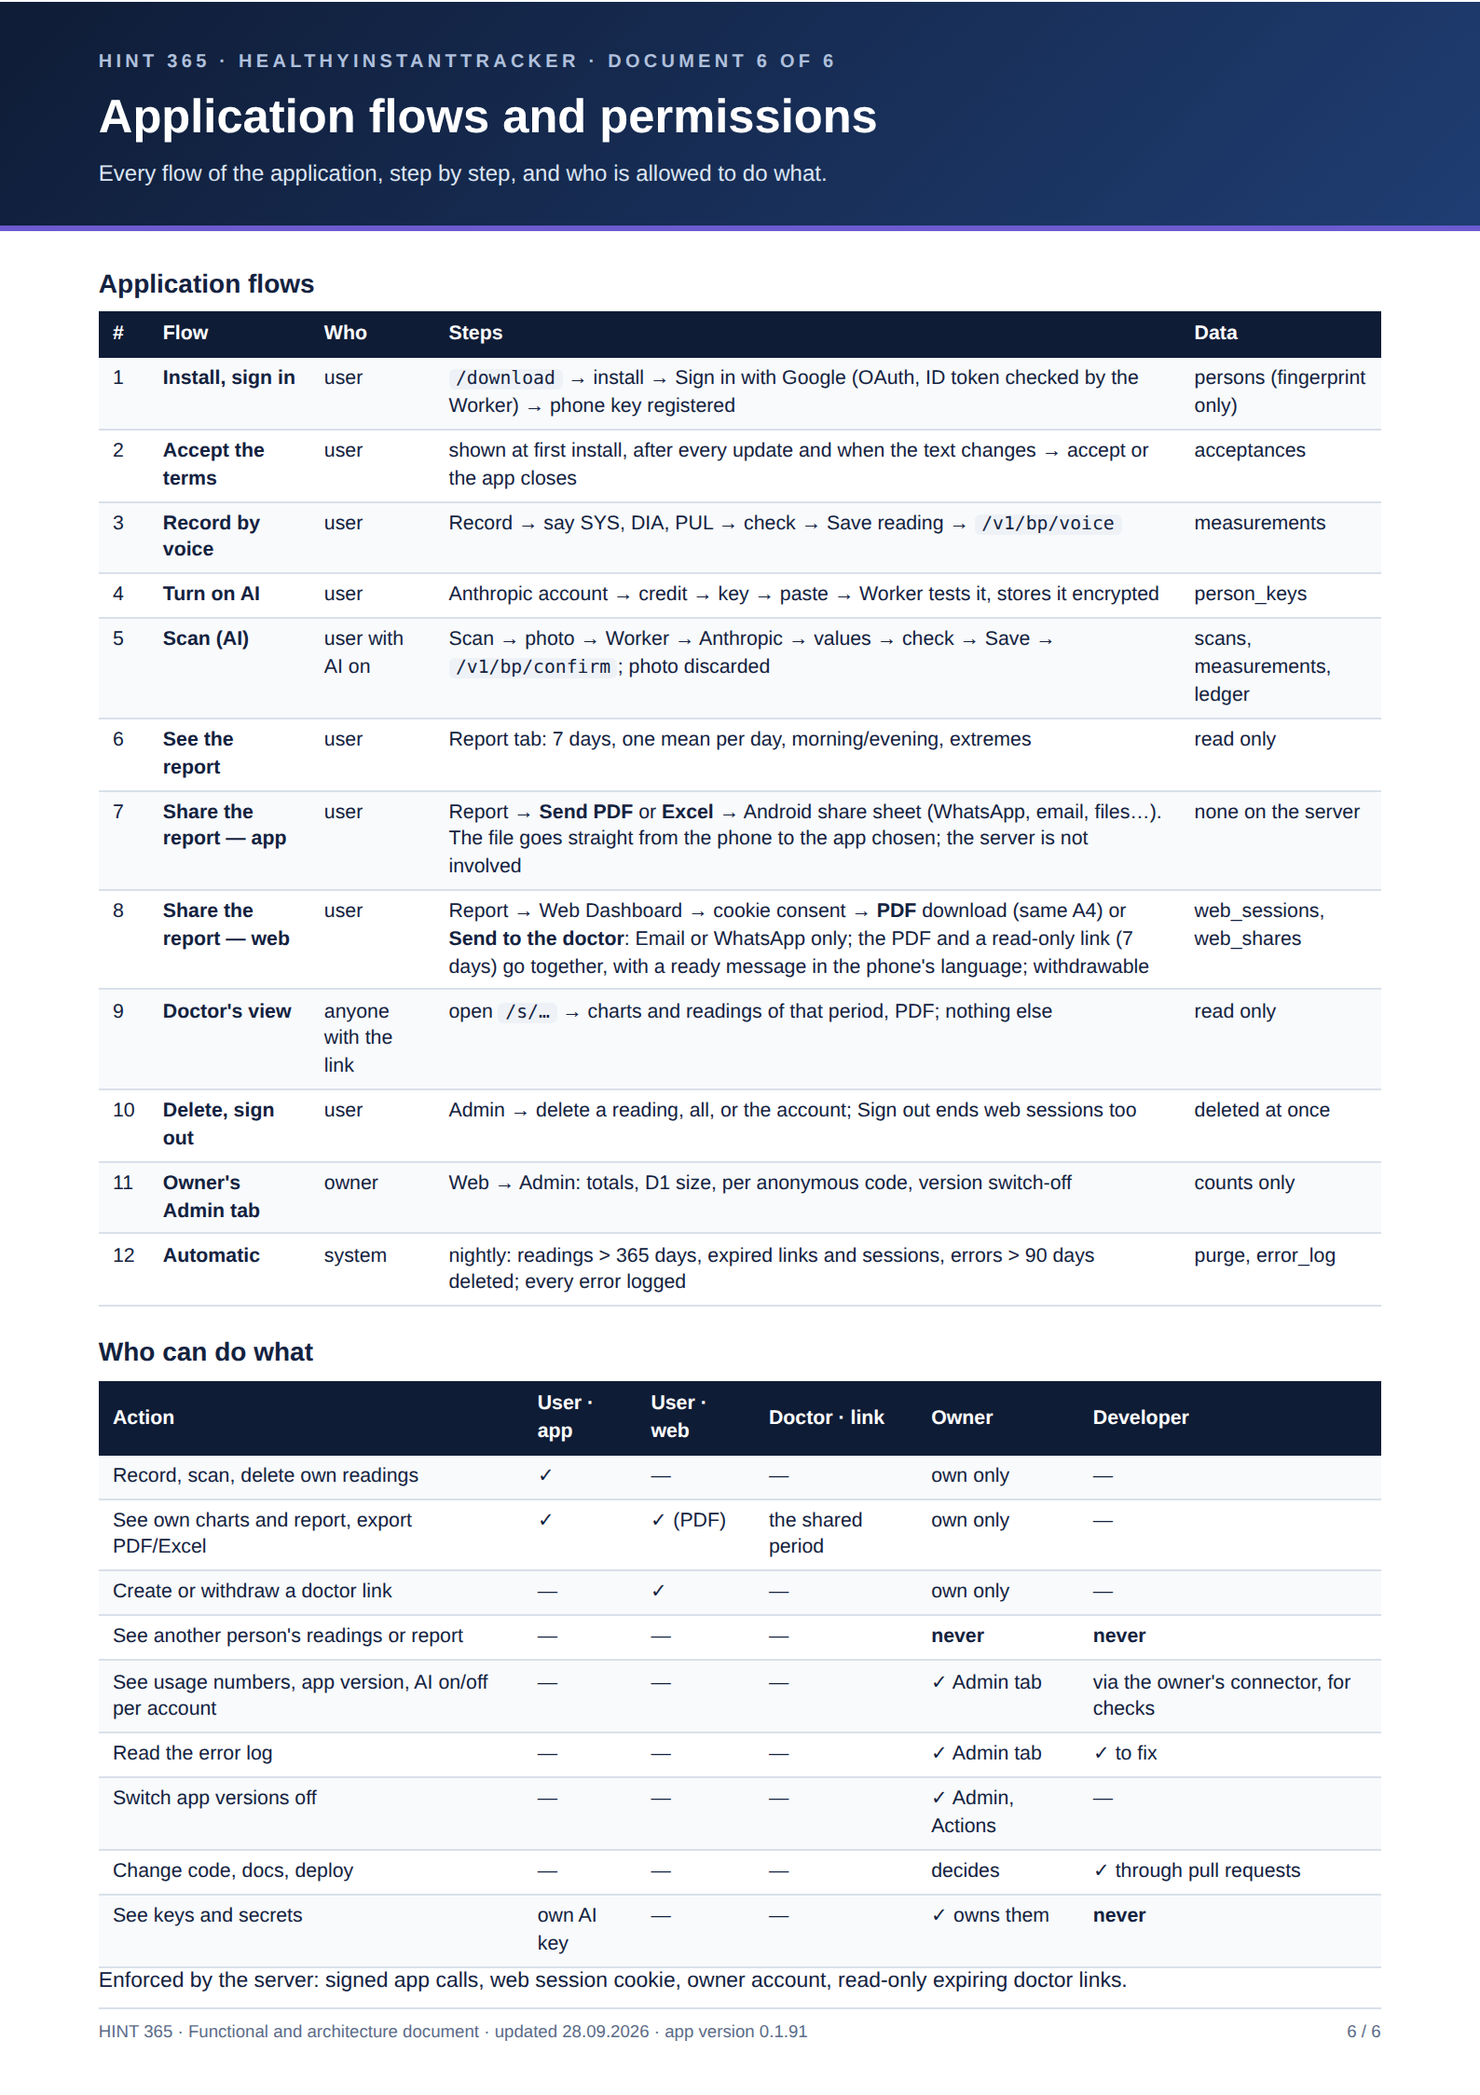
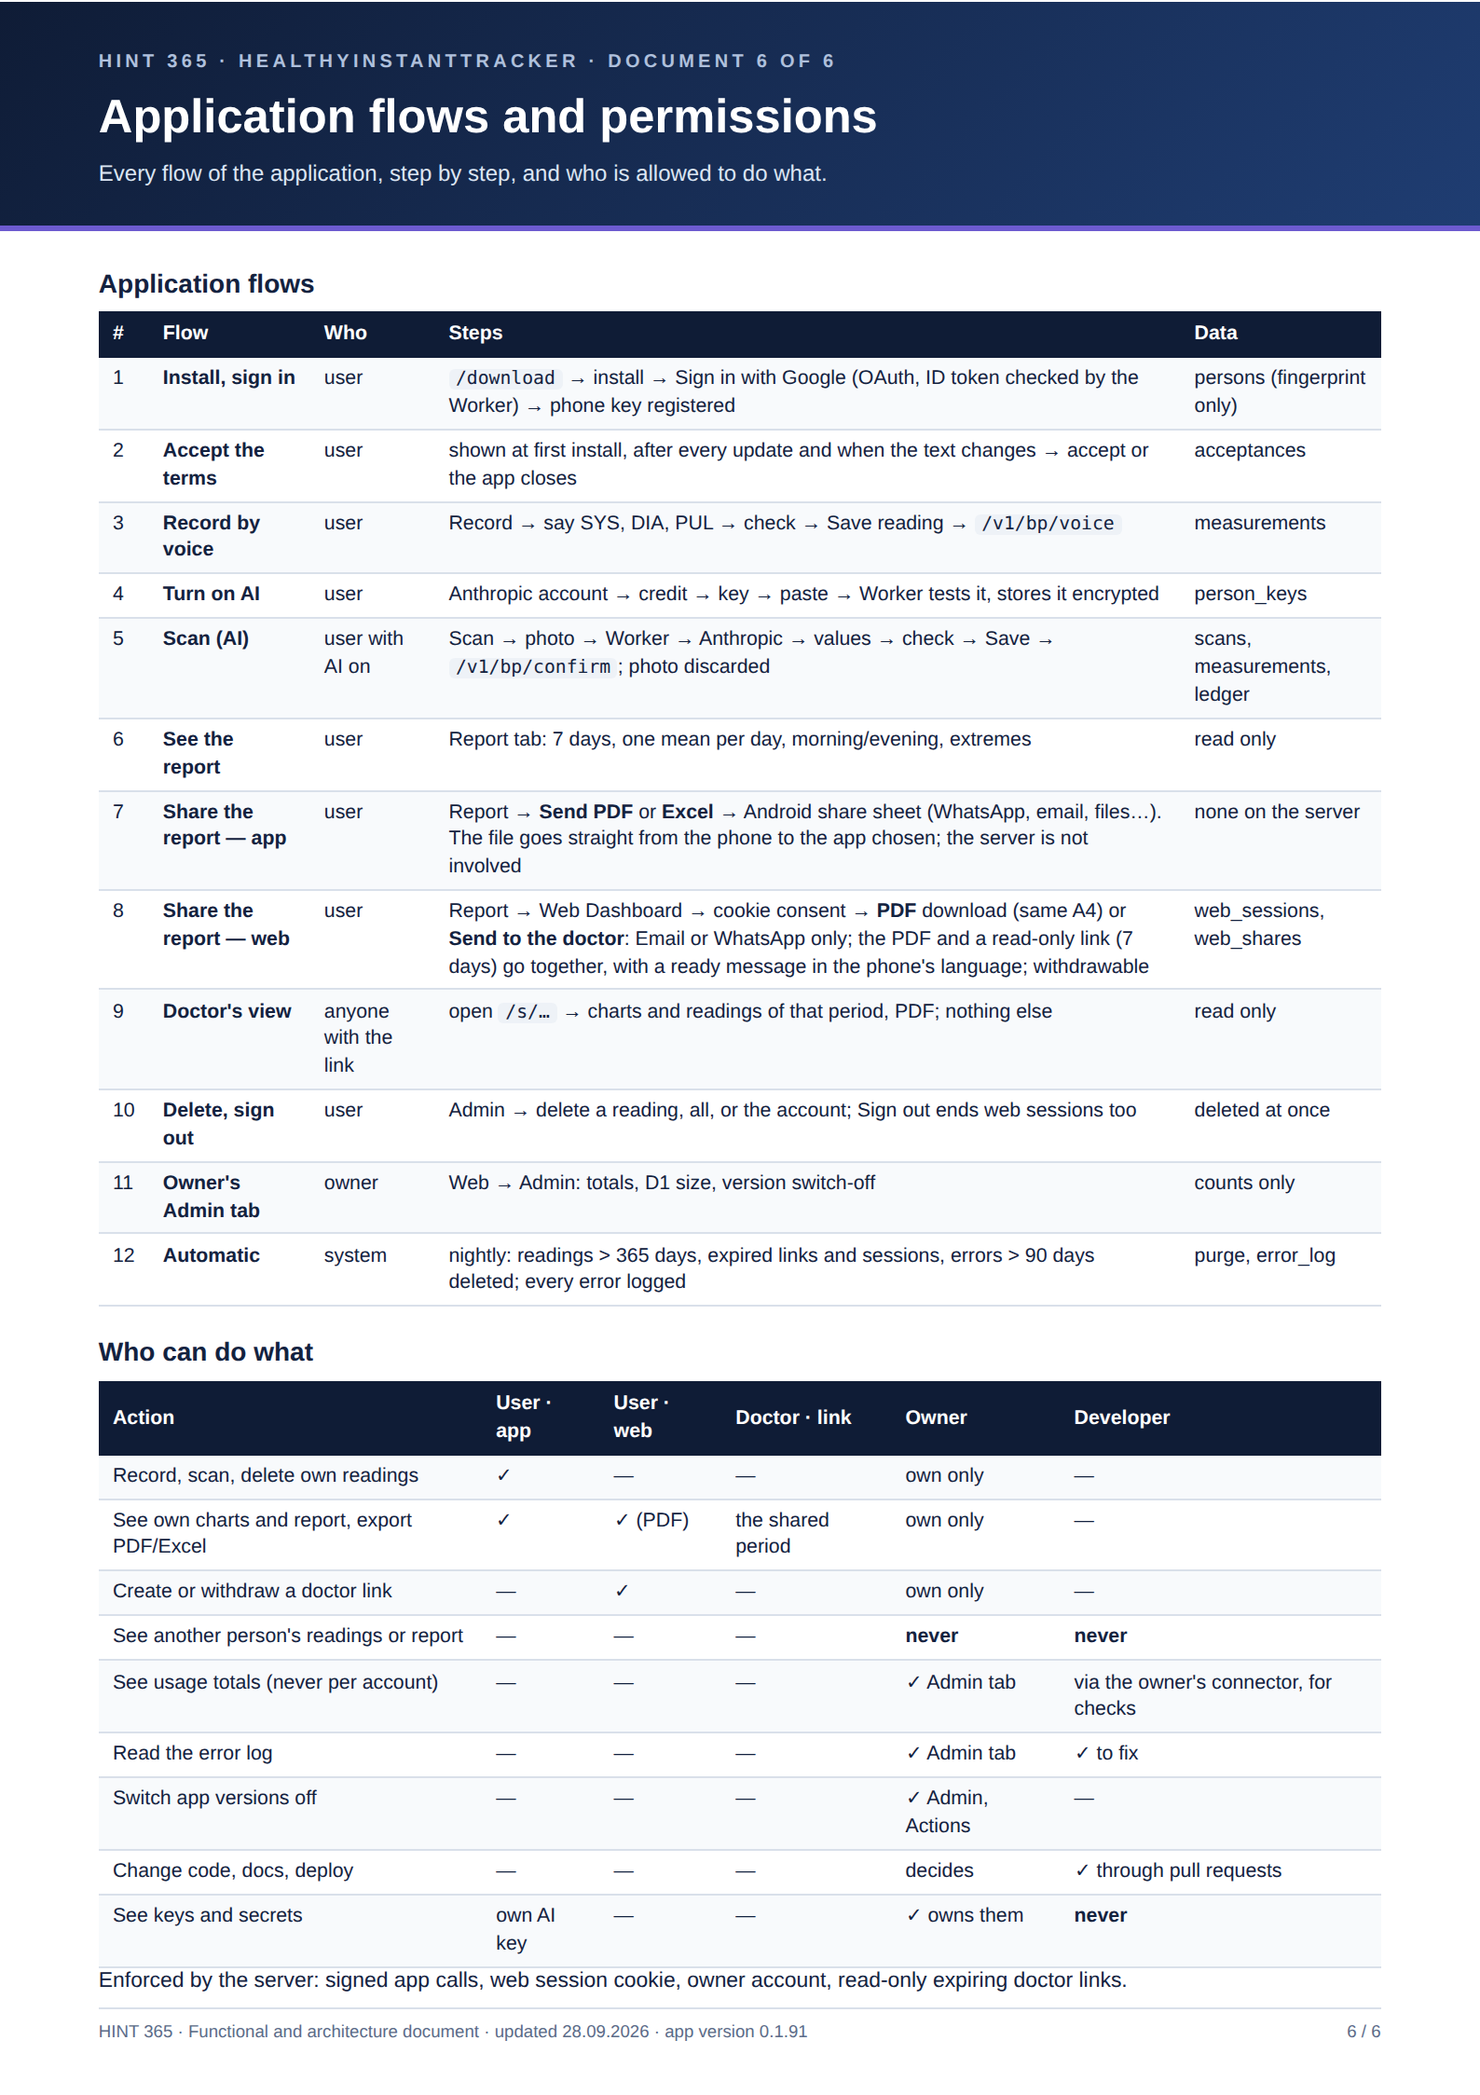
Admin: tolti i riquadri Utenti ed Errori, restano solo i totali (#86)
- Web Dashboard, scheda Admin: via l'elenco degli utenti per codice e la tabella degli errori;
  restano totali, spazio D1 e blocco versioni. L'API non manda più né l'elenco né gli errori.
- Test, documento di architettura e regole aggiornati.

Claude-Session: https://claude.ai/code/session_01HVZvBazZhZm9RtUYMabxtB

diff --git a/worker/public/my/app.js b/worker/public/my/app.js
@@ -530,7 +530,7 @@
      Usage numbers per anonymous account code: when it joined, when it was last used, how many readings.
      Never a value, a report or a name. The server refuses all of it to anyone but the owner. */
   const AD = IT ? {
-    tab: "Admin", title: "Area del proprietario", sub: "La vedi solo tu · solo numeri d'uso, legati al codice anonimo: nessuna misura, nessun report, nessun nome",
+    tab: "Admin", title: "Area del proprietario", sub: "La vedi solo tu · solo totali: nessuna misura, nessun report, nessun nome",
     upd: "Aggiornato", users: "Utenti", usersU: "in totale", aiOn: "Con funzionalità AI", aiOnU: "chiave Anthropic attiva", aiOff: "Senza funzionalità AI", aiOffU: "solo l'app",
     rd: "Misure", split: (v, f) => `${v} a voce · ${f} con Scan`, aiSp: "Spesa AI", aiSpU: "in totale, sui crediti Anthropic degli utenti",
     errs: "Errori", errsU: "in totale, ultimi 90 giorni",
@@ -540,14 +540,8 @@
     vOff: (v) => `Blocca le versioni precedenti alla ${v}`, vOn: "Sblocca tutte le versioni",
     vAskOff: (v) => `Tutte le app precedenti alla ${v} smettono subito di funzionare, su ogni telefono, finché non si installa l'ultima. I dati restano. Confermi?`,
     vAskOn: "Tutte le versioni installate tornano a funzionare. Confermi?",
-    uT: "Utenti", uNote: "Codice anonimo dell'account e numeri d'uso. «tu» è il tuo account.",
-    cols: ["Codice", "Iscritto", "Ultimo accesso", "Misure", "Voce / Scan", "Funzionalità AI", "Versione app"],
-    errT: "Errori degli ultimi 30 giorni", errNote: "Raggruppati per giorno, punto e versione: il numero dice quante volte è successo. Nessun valore delle misure.",
-    errNone: "Nessun errore registrato.", errCols: ["Giorno", "Dove", "Codice", "Volte", "Versione", "Messaggio"],
-    src: { server: "Server", app: "App", web: "Web" },
-    aiS: { none: "Non attive", ok: "Attive", no_credit: "Attive · credito finito", invalid: "Attive · chiave non valida" }, you: "tu", never: "—",
   } : {
-    tab: "Admin", title: "Owner's area", sub: "Only you see it · usage numbers only, tied to the anonymous code: no readings, no reports, no names",
+    tab: "Admin", title: "Owner's area", sub: "Only you see it · totals only: no readings, no reports, no names",
     upd: "Updated", users: "Users", usersU: "in total", aiOn: "With AI features", aiOnU: "Anthropic key on", aiOff: "Without AI features", aiOffU: "the app only",
     rd: "Readings", split: (v, f) => `${v} by voice · ${f} with Scan`, aiSp: "AI spending", aiSpU: "in total, on the users' own Anthropic credit",
     errs: "Errors", errsU: "in total, last 90 days",
@@ -557,12 +551,6 @@
     vOff: (v) => `Block versions older than ${v}`, vOn: "Unblock every version",
     vAskOff: (v) => `Every app older than ${v} stops working at once, on every phone, until the latest is installed. The data stay. Confirm?`,
     vAskOn: "Every installed version works again. Confirm?",
-    uT: "Users", uNote: "Anonymous account code and usage numbers. “you” is your own account.",
-    cols: ["Code", "Joined", "Last opened", "Readings", "Voice / Scan", "AI features", "App version"],
-    errT: "Errors of the last 30 days", errNote: "Grouped by day, place and version: the number says how many times it happened. No reading values.",
-    errNone: "No errors logged.", errCols: ["Day", "Where", "Code", "Times", "Version", "Message"],
-    src: { server: "Server", app: "App", web: "Web" },
-    aiS: { none: "Off", ok: "On", no_credit: "On · credit out", invalid: "On · key refused" }, you: "you", never: "—",
   };
   const esc = (v) => String(v).replace(/[&<>"]/g, (c) => ({ "&": "&amp;", "<": "&lt;", ">": "&gt;", '"': "&quot;" })[c]);
   const mb = (b) => (b / 1048576).toLocaleString(LOCALE, { maximumFractionDigits: b < 10485760 ? 2 : 0 }) + " MB";
@@ -575,7 +563,6 @@
     const tile = (l, val, w) => `<div class="tile"><div class="l">${l}</div><div class="v">${val}</div><div class="w">${w}</div></div>`;
     const pc = st.freeLimitBytes ? Math.min(100, (st.dbBytes / st.freeLimitBytes) * 100) : 0;
     const pcText = pc.toLocaleString(LOCALE, { maximumFractionDigits: pc < 1 ? 2 : 1 }) + " %";
-    const when = (ms) => (ms ? `${day(ms)} ${time(ms)}` : AD.never);
     main.innerHTML = `
       <div class="bar"><h1>${AD.title}</h1><span class="grow"></span><span class="sub">${AD.upd} ${time(d.at)}</span></div>
       <p class="note">${AD.sub}</p>
@@ -599,21 +586,6 @@
           ${v.newest && v.min < v.newest ? `<button class="btn" type="button" id="adm-off">${AD.vOff(ver(v.newest))}</button>` : ""}
           ${v.min ? `<button class="btn ghost" type="button" id="adm-on">${AD.vOn}</button>` : ""}
         </div>
-      </div>
-      <div class="card"><div class="card-h"><h2>${AD.uT}</h2><span class="sub">${AD.uNote}</span></div>
-        <div class="tbl"><table class="list"><thead><tr>${AD.cols.map((c) => `<th>${c}</th>`).join("")}</tr></thead><tbody>
-          ${d.users.map((u) => { const L = AD.cols; return `<tr>
-            <td data-l="${L[0]}"><span><code>${esc(u.id)}</code>${u.owner ? ` <b class="you">${AD.you}</b>` : ""}</span></td>
-            <td data-l="${L[1]}">${day(u.since)}</td><td data-l="${L[2]}">${when(u.lastSeen)}</td>
-            <td data-l="${L[3]}">${u.readings}</td><td data-l="${L[4]}">${u.voice} / ${u.photo}</td>
-            <td data-l="${L[5]}" class="${u.ai === "none" ? "muted" : ""}">${AD.aiS[u.ai] || esc(u.ai)}</td><td data-l="${L[6]}"><b>${u.app ? esc(u.app) : "—"}</b></td></tr>`; }).join("")}
-        </tbody></table></div>
-      </div>
-      <div class="card"><div class="card-h"><h2>${AD.errT}</h2><span class="sub">${AD.errNote}</span></div>
-        ${(d.errors || []).length ? `<div class="tbl"><table class="list"><thead><tr>${AD.errCols.map((c) => `<th>${c}</th>`).join("")}</tr></thead><tbody>
-          ${d.errors.map((x) => { const L = AD.errCols; return `<tr><td data-l="${L[0]}">${esc(x.day)}</td><td data-l="${L[1]}"><span>${esc(AD.src[x.source] || x.source)} · <code>${esc(x.place)}</code></span></td><td data-l="${L[2]}"><code>${esc(x.code)}</code></td>
-            <td data-l="${L[3]}">${x.count}</td><td data-l="${L[4]}">${x.app ? esc(x.app) : "—"}</td><td data-l="${L[5]}" class="muted small">${esc(x.message)}</td></tr>`; }).join("")}
-        </tbody></table></div>` : `<p class="muted">${AD.errNone}</p>`}
       </div>`;
     const setMin = async (min, ask) => {
       if (!confirm(ask)) return;

diff --git a/docs/architecture/architecture.html b/docs/architecture/architecture.html
@@ -300,7 +300,7 @@
         <li><b>Web</b>: a 60 s one-time code in the <code>#</code> part of the address becomes the only cookie, <code>hint_s</code> (technical, 7 days, HttpOnly, Secure, SameSite=Strict), set only after consent. The app uses no cookies.</li>
         <li><b>Doctor links</b>: read-only, fixed period, expire after 7 days, withdrawable; no email, no account, no cookie.</li>
         <li><b>Remote switch-off</b>: the app version travels with every request; <code>settings</code> holds <code>app_min_version</code>, <code>app_blocked</code>, <code>app_off</code>. Owner only, from the web Admin area.</li>
-        <li><b>Owner's area</b> (web, owner only): totals, D1 size vs the 500 MB free limit, per anonymous code: joined, last seen, readings, AI on, app version. Never values or names.</li>
+        <li><b>Owner's area</b> (web, owner only): totals only (users, AI on/off, readings by voice/Scan, AI spent, errors), D1 size vs the 500 MB free limit. Never values, codes or names.</li>
         <li><b>Subscription</b> (ready, off until Google Play): Play Billing, checked with the Play Developer API.</li>
                 <li><b>Retention</b>: readings older than 365 days deleted every night; acceptances in an append-only register.</li>
         <li><b>Personal data</b>: no name, no email (Google account only as HMAC-SHA256); codes, cookies, links only as SHA-256; Anthropic keys AES-GCM; photos discarded; data in the EU.</li>
@@ -388,7 +388,7 @@
     <div>
       <h2>Who uses it</h2>
       <ul>
-        <li><b>Owner</b>: Admin tab → total errors (90 days) and the table of the last 30 days.</li>
+        <li><b>Owner</b>: Admin tab → total errors (90 days); the details reach the developer through the daily issue.</li>
         <li><b>Developer</b>: every morning a scheduled routine reads the report of the log and fixes (page 5); in working sessions it is also read after every release.</li>
         <li><b>Table</b>: <code>error_log</code> in D1, written by <code>worker/src/errors.ts</code>; app side <code>ErrorReport</code> in <code>Core.kt</code>; web side in <code>app.js</code>.</li>
         <li>Also on every account: the app version it last opened with and whether the AI features are on, for the owner's Admin tab.</li>
@@ -524,7 +524,7 @@
     <tr><td>8</td><td><b>Share the report — web</b></td><td>user</td><td>Report → Web Dashboard → cookie consent → <b>PDF</b> download (same A4) or <b>Send to the doctor</b>: Email or WhatsApp only; the PDF and a read-only link (7 days) go together, with a ready message in the phone's language; withdrawable</td><td>web_sessions, web_shares</td></tr>
     <tr><td>9</td><td><b>Doctor's view</b></td><td>anyone with the link</td><td>open <code>/s/…</code> → charts and readings of that period, PDF; nothing else</td><td>read only</td></tr>
     <tr><td>10</td><td><b>Delete, sign out</b></td><td>user</td><td>Admin → delete a reading, all, or the account; Sign out ends web sessions too</td><td>deleted at once</td></tr>
-    <tr><td>11</td><td><b>Owner's Admin tab</b></td><td>owner</td><td>Web → Admin: totals, D1 size, per anonymous code, version switch-off</td><td>counts only</td></tr>
+    <tr><td>11</td><td><b>Owner's Admin tab</b></td><td>owner</td><td>Web → Admin: totals, D1 size, version switch-off</td><td>counts only</td></tr>
     <tr><td>12</td><td><b>Automatic</b></td><td>system</td><td>nightly: readings &gt; 365 days, expired links and sessions, errors &gt; 90 days deleted; every error logged</td><td>purge, error_log</td></tr>
   </table>
 
@@ -535,7 +535,7 @@
     <tr><td>See own charts and report, export PDF/Excel</td><td>✓</td><td>✓ (PDF)</td><td>the shared period</td><td>own only</td><td>—</td></tr>
     <tr><td>Create or withdraw a doctor link</td><td>—</td><td>✓</td><td>—</td><td>own only</td><td>—</td></tr>
     <tr><td>See another person's readings or report</td><td>—</td><td>—</td><td>—</td><td><b>never</b></td><td><b>never</b></td></tr>
-    <tr><td>See usage numbers, app version, AI on/off per account</td><td>—</td><td>—</td><td>—</td><td>✓ Admin tab</td><td>via the owner's connector, for checks</td></tr>
+    <tr><td>See usage totals (never per account)</td><td>—</td><td>—</td><td>—</td><td>✓ Admin tab</td><td>via the owner's connector, for checks</td></tr>
     <tr><td>Read the error log</td><td>—</td><td>—</td><td>—</td><td>✓ Admin tab</td><td>✓ to fix</td></tr>
     <tr><td>Switch app versions off</td><td>—</td><td>—</td><td>—</td><td>✓ Admin, Actions</td><td>—</td></tr>
     <tr><td>Change code, docs, deploy</td><td>—</td><td>—</td><td>—</td><td>decides</td><td>✓ through pull requests</td></tr>

diff --git a/worker/src/web.ts b/worker/src/web.ts
@@ -13,7 +13,7 @@
 // Modules: each part of the dashboard (blood pressure today, lab results later) is one entry of MODULES.
 // A new module = one entry here and one in public/my/app.js; routes, sign-in and sharing stay the same.
 
-import { logError, recentErrors } from "./errors";
+import { logError } from "./errors";
 import { tooMany, ipKey, HOUR, DAY } from "./limits";
 
 type Q = (text: string, params?: unknown[]) => Promise<any[]>;
@@ -163,7 +163,7 @@ export async function handleWeb(req: Request, env: any, q: Q, url: URL, subOk: (
   // The owner's area: usage numbers only, per anonymous account code. Never a reading, a report or a name.
   if (p.startsWith("/my/api/admin/")) {
     if (!isOwner) return fail("Only the app owner", 403, "admin_only");
-    if (p === "/my/api/admin/overview" && req.method === "GET") return json({ ...(await adminOverview(env, q)), errors: await recentErrors(q) });
+    if (p === "/my/api/admin/overview" && req.method === "GET") return json(await adminOverview(env, q));
     if (p === "/my/api/admin/app-min-version" && req.method === "POST") {
       let b: any = {};
       try { b = await req.json(); } catch {}
@@ -260,6 +260,5 @@ async function adminOverview(env: any, q: Q) {
     storage: { dbBytes, freeLimitBytes: 500 * 1024 * 1024 },
     versions: { min: Number(set.app_min_version) || 0, blocked: set.app_blocked || "", off: set.app_off === "1", newest: newestVersion(env) },
     subscriptionOn: set.subscription_on === "1",
-    users: list,
   };
 }

diff --git a/worker/src/errors.ts b/worker/src/errors.ts
@@ -45,15 +45,3 @@ export async function logError(q: Q, e: ErrorEntry): Promise<void> {
     console.error("error log failed", err);   // logging must never break a request
   }
 }
-
-/** The last 30 days of the log, newest first, for the owner's Admin tab. */
-export async function recentErrors(q: Q) {
-  const since = Date.now() - 30 * 864e5;
-  const rows = await q(
-    `SELECT day, source, code, place, app_version, count, last_at, message FROM error_log
-     WHERE last_at > ?1 ORDER BY last_at DESC LIMIT 200`, [since]);
-  return rows.map((r: any) => ({
-    day: String(r.day), source: String(r.source), code: String(r.code), place: String(r.place),
-    app: String(r.app_version || ""), count: Number(r.count), lastAt: Number(r.last_at), message: r.message ? String(r.message) : "",
-  }));
-}

diff --git a/CLAUDE.md b/CLAUDE.md
@@ -30,14 +30,14 @@
   sono facoltative, a consumo, pagate dall'utente ad Anthropic con il proprio credito (mai al proprietario). Mai chiamarle
   «Standard/Premium»: si dice «funzionalità AI attive / non attive», «Attiva AI».
 - **App semplice, controlli del proprietario solo sul web**: nell'app nessun pulsante che oggi non si usa. L'owner ha
-  nella Web Dashboard la scheda **Admin** (utenti per codice anonimo, numeri d'uso, spazio D1, blocco versioni):
+  nella Web Dashboard la scheda **Admin** (solo totali: utenti, con/senza AI, misure voce/Scan, spesa AI, errori; spazio D1, blocco versioni):
   mai valori delle misure, report o nomi. L'abbonamento resta pronto ma spento finché l'app non esce sul Play Store.
 - **Dove gira**: tutto su Cloudflare, un solo Worker (API `/v1`, Web Dashboard `/my`, link `/s`) con D1 in UE; niente Vercel.
   App e browser non toccano mai D1: passa tutto dal Worker.
 - **Ruoli**: Human è l'architetto (decide design e priorità in chat, prova ogni APK); Claude sviluppa, testa, unisce, controlla
   il deploy e manda l'APK in chat.
 - **Tutti i documenti in `docs/`** (indice `docs/README.md`: cosa, chi, quando). Ogni aggiunta, modifica o rimozione aggiorna nello
-  stesso commit i documenti che tocca: architettura (3 pagine), guide IT/EN con i loro PDF (`node docs/render-guides.cjs`),
+  stesso commit i documenti che tocca: architettura (6 pagine, `node docs/check-layout.cjs`), guide IT/EN con i loro PDF (`node docs/render-guides.cjs`),
   condizioni/privacy/home in `docs/legal/` (`cd worker && node scripts/export-docs.mjs`). Il workflow *Docs check* lo verifica.
 - **Registro errori** (`error_log`, `worker/src/errors.ts`, `ErrorReport` nell'app, `app.js` sul web): sintetico, raggruppato per
   giorno/punto/versione con contatore, senza valori delle misure, 90 giorni. Va letto a ogni sessione di lavoro e dopo ogni
